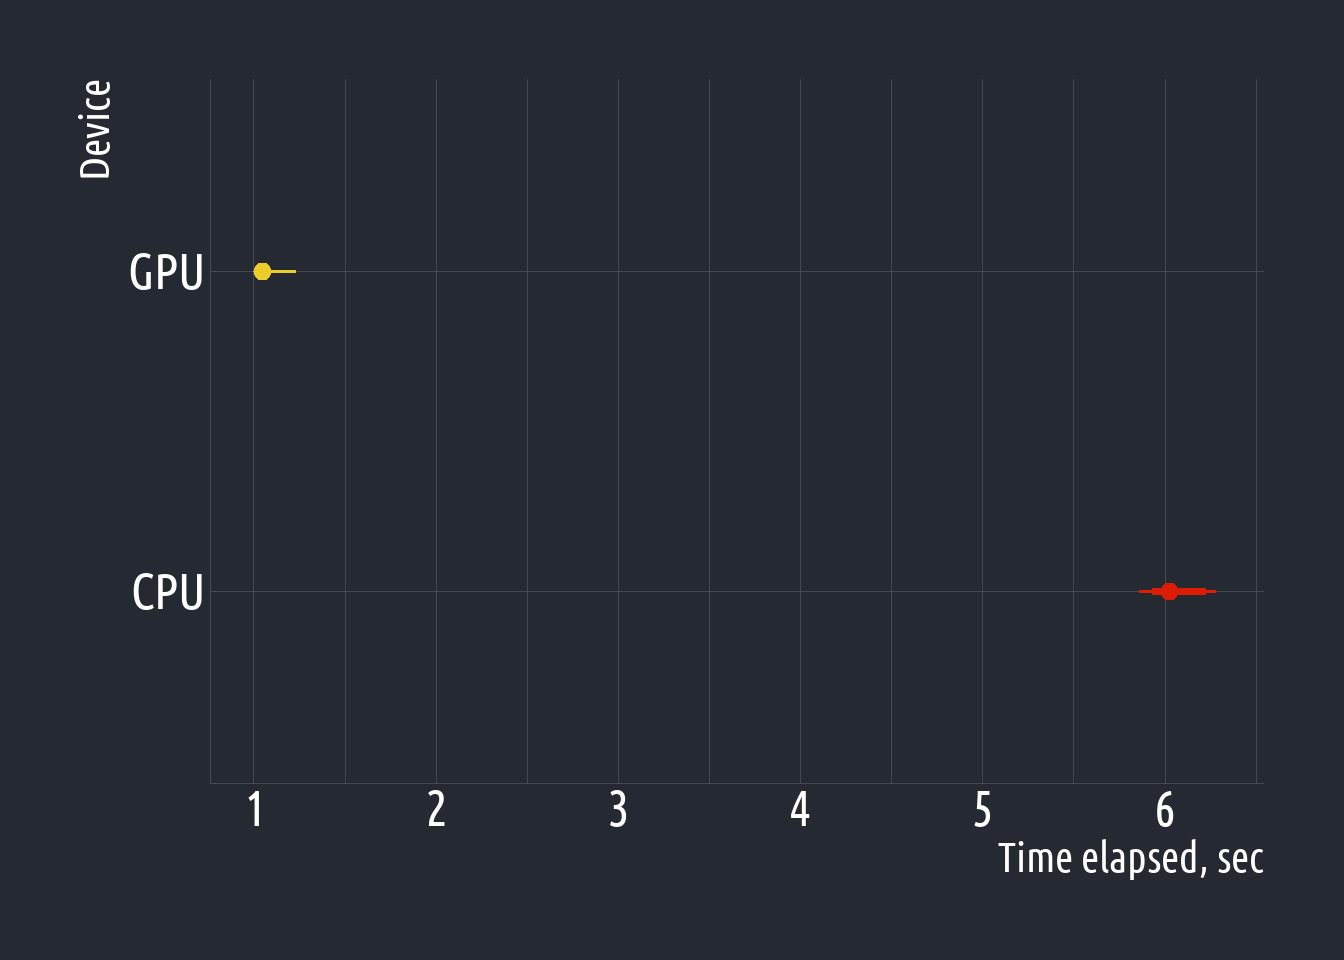
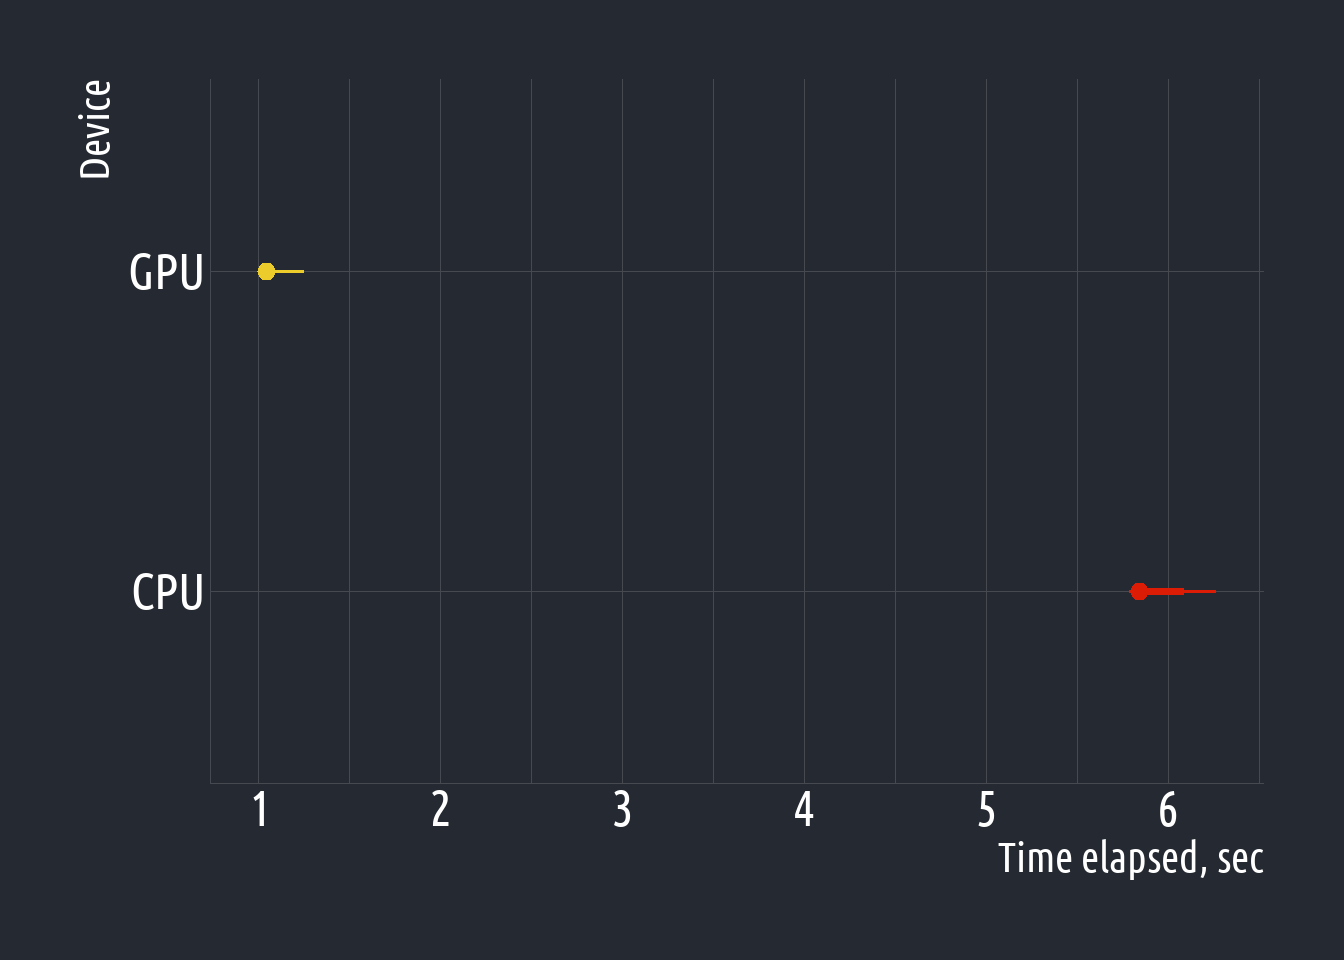
grammar fix and NixOS addon

diff --git a/_site/posts/2024/xgboost-gpu-r.html b/_site/posts/2024/xgboost-gpu-r.html
@@ -149,13 +149,17 @@ pre > code.sourceCode > span > a:first-child::before { text-decoration: underlin
 
 <meta property="og:title" content="Accelerating XGBoost with GPU in R – Anatoly Tsyplenkov">
 <meta property="og:description" content="Update NVIDIA drivers, install the pre-built {xgboost} library with GPU support, and set device = &quot;cuda&quot; while tree_method = &quot;hist&quot;.">
[1 lines of base64/hex data omitted]
+<meta property="og:image" content="https://anatolii.nz/posts/2024/figures/benchmarks.png">
 <meta property="og:site_name" content="Anatoly Tsyplenkov">
+<meta property="og:image:height" content="960">
+<meta property="og:image:width" content="1344">
 <meta name="twitter:title" content="Accelerating XGBoost with GPU in R – Anatoly Tsyplenkov">
 <meta name="twitter:description" content="Personal website of Anatoly Tsyplenkov">
[1 lines of base64/hex data omitted]
+<meta name="twitter:image" content="https://anatolii.nz/posts/2024/figures/benchmarks.png">
 <meta name="twitter:creator" content="@atsyplen">
 <meta name="twitter:card" content="summary_large_image">
+<meta name="twitter:image-height" content="960">
+<meta name="twitter:image-width" content="1344">
 </head>
 
 <body class="nav-fixed">
@@ -303,7 +307,7 @@ pre > code.sourceCode > span > a:first-child::before { text-decoration: underlin
 <section id="installation-instructions" class="level1 page-columns page-full">
 <h1>Installation instructions</h1>
 <p>According to the official documentation of the <code>{xgboost}</code> library, to run GPU-accelerated models in R, one must download and install the <a href="https://xgboost.readthedocs.io/en/latest/install.html#r"><strong>experimental pre-built binary with GPU support</strong></a> (i.e., not the CRAN version!). Currently, they exist only for Windows <i class="fa-brands fa-windows" aria-label="windows"></i> and Linux <i class="fa-brands fa-linux" aria-label="linux"></i>. They are not built with every release, so it’s a good practice to monitor <a href="https://github.com/dmlc/xgboost/releases">GitHub’s release</a> page for new binaries. While I am writing this post, the <code>2.0.3</code> version is the latest with GPU support for R.</p>
-<p>Currently, only NVIDIA GPUs <a href="https://xgboost.readthedocs.io/en/latest/gpu/index.html">are supported</a> and pre-built binaries are available for Windows and Linux. So, in a nutshell, prerequisites are as follows:</p>
+<p>Currently, only NVIDIA GPUs <a href="https://xgboost.readthedocs.io/en/latest/gpu/index.html">are supported</a>. So, in a nutshell, prerequisites are as follows:</p>
 <div class="callout callout-style-default callout-important callout-titled">
 <div class="callout-header d-flex align-content-center">
 <div class="callout-icon-container">
@@ -320,9 +324,9 @@ Prerequisites:
 </ol>
 </div>
 </div>
-<p>Depending on your operating system, installation instructions may vary. While it is quite straightforward for Windows and Linux, running <code>{xgboost}</code> with GPU on WSL2 requires some additional steps.</p>
+<p>Depending on your operating system, installation instructions may vary. While it is quite straightforward for Windows and Linux, running <code>{xgboost}</code> with GPU on WSL2 <em>may</em> require some additional steps.</p>
 <div class="tabset-margin-container"></div><div class="panel-tabset page-columns page-full">
-<ul class="nav nav-tabs" role="tablist"><li class="nav-item" role="presentation"><a class="nav-link active" id="tabset-1-1-tab" data-bs-toggle="tab" data-bs-target="#tabset-1-1" role="tab" aria-controls="tabset-1-1" aria-selected="true">Linux <i class="fa-brands fa-debian" aria-label="debian"></i> / <i class="fa-brands fa-ubuntu" aria-label="ubuntu"></i></a></li><li class="nav-item" role="presentation"><a class="nav-link" id="tabset-1-2-tab" data-bs-toggle="tab" data-bs-target="#tabset-1-2" role="tab" aria-controls="tabset-1-2" aria-selected="false">Windows <i class="fa-brands fa-windows" aria-label="windows"></i></a></li><li class="nav-item" role="presentation"><a class="nav-link" id="tabset-1-3-tab" data-bs-toggle="tab" data-bs-target="#tabset-1-3" role="tab" aria-controls="tabset-1-3" aria-selected="false">WSL2 <i class="fa-brands fa-linux" aria-label="linux"></i></a></li></ul>
+<ul class="nav nav-tabs" role="tablist"><li class="nav-item" role="presentation"><a class="nav-link active" id="tabset-1-1-tab" data-bs-toggle="tab" data-bs-target="#tabset-1-1" role="tab" aria-controls="tabset-1-1" aria-selected="true">Linux <i class="fa-brands fa-debian" aria-label="debian"></i> / <i class="fa-brands fa-ubuntu" aria-label="ubuntu"></i></a></li><li class="nav-item" role="presentation"><a class="nav-link" id="tabset-1-2-tab" data-bs-toggle="tab" data-bs-target="#tabset-1-2" role="tab" aria-controls="tabset-1-2" aria-selected="false">Windows <i class="fa-brands fa-windows" aria-label="windows"></i></a></li><li class="nav-item" role="presentation"><a class="nav-link" id="tabset-1-3-tab" data-bs-toggle="tab" data-bs-target="#tabset-1-3" role="tab" aria-controls="tabset-1-3" aria-selected="false">WSL2 <i class="fa-brands fa-linux" aria-label="linux"></i></a></li><li class="nav-item" role="presentation"><a class="nav-link" id="tabset-1-4-tab" data-bs-toggle="tab" data-bs-target="#tabset-1-4" role="tab" aria-controls="tabset-1-4" aria-selected="false">NixOS ❄</a></li></ul>
 <div class="tab-content page-columns page-full">
 <div id="tabset-1-1" class="tab-pane active" role="tabpanel" aria-labelledby="tabset-1-1-tab">
 <p>No additional tinkering is required; just be sure that you have installed <a href="https://www.nvidia.com/en-us/drivers/unix/">the latest NVIDIA</a> drivers on your system.</p>
@@ -345,13 +349,14 @@ Prerequisites:
 </div>
 </div>
 <div id="tabset-1-3" class="tab-pane page-columns page-full" role="tabpanel" aria-labelledby="tabset-1-3-tab">
-<p>By default, WSL2 does have access to your GPU. You can check this by running <code>nvidia-smi</code> in your terminal. If you see something similar to this, you are all set:</p>
+<p>By default, WSL2 should have access to your GPU. You can check this by running <code>nvidia-smi</code> in your terminal. If you see something similar to this, you are all set:</p>
 <div class="quarto-figure quarto-figure-center page-columns page-full">
 <figure class="figure page-columns page-full">
 <p><a href="figures/WindowsTerminal_kTF31RPuRA.png" class="lightbox" data-gallery="quarto-lightbox-gallery-2" title="Checking that WSL2 have access to GPU."><img src="figures/WindowsTerminal_kTF31RPuRA.png" class="img-fluid figure-img" style="width:50.0%" alt="Checking that WSL2 have access to GPU."></a></p>
 <figcaption class="margin-caption">Checking that WSL2 have access to GPU.</figcaption>
 </figure>
 </div>
+<p>If not, try installing <em>CUDA Toolkit</em> following this instructions:</p>
 <div class="callout callout-style-default callout-note callout-titled">
 <div class="callout-header d-flex align-content-center" data-bs-toggle="collapse" data-bs-target=".callout-2-contents" aria-controls="callout-2" aria-expanded="false" aria-label="Toggle callout">
 <div class="callout-icon-container">
@@ -373,6 +378,9 @@ CUDA Toolkit
 <div class="sourceCode cell-code" id="cb3"><pre class="sourceCode numberSource r number-lines code-with-copy"><code class="sourceCode r"><span id="cb3-1"><a href="#cb3-1"></a>xgboost_url <span class="ot">&lt;-</span> <span class="st">"https://s3-us-west-2.amazonaws.com/xgboost-nightly-builds/release_2.0.0/xgboost_r_gpu_linux_82d846bbeb83c652a0b1dff0e3519e67569c4a3d.tar.gz"</span></span>
 <span id="cb3-2"><a href="#cb3-2"></a><span class="fu">install.packages</span>(xgboost_url, <span class="at">repos =</span> <span class="cn">NULL</span>, <span class="at">type =</span> <span class="st">"source"</span>)</span></code><button title="Copy to Clipboard" class="code-copy-button"><i class="bi"></i></button></pre></div>
 </div>
+</div>
+<div id="tabset-1-4" class="tab-pane" role="tabpanel" aria-labelledby="tabset-1-4-tab">
+<p>Via <a href="https://github.com/b-rodrigues/xgboost-gpu-nix">nix shell</a>, created by Bruno Rodrigues.</p>
 </div>
 </div>
 </div>
@@ -433,7 +441,7 @@ CUDA Toolkit
 <span id="cb5-10"><a href="#cb5-10"></a>)</span>
 <span id="cb5-11"><a href="#cb5-11"></a><span class="fu">toc</span>()</span></code><button title="Copy to Clipboard" class="code-copy-button"><i class="bi"></i></button></pre></div>
 <div class="cell-output cell-output-stdout">
-<pre><code>6.98 sec elapsed</code></pre>
+<pre><code>6.8 sec elapsed</code></pre>
 </div>
 <div class="sourceCode cell-code" id="cb7"><pre class="sourceCode numberSource r number-lines code-with-copy"><code class="sourceCode r"><span id="cb7-1"><a href="#cb7-1"></a><span class="co"># GPU model</span></span>
 <span id="cb7-2"><a href="#cb7-2"></a><span class="fu">tic</span>()</span>
@@ -448,7 +456,7 @@ CUDA Toolkit
 <span id="cb7-11"><a href="#cb7-11"></a>)</span>
 <span id="cb7-12"><a href="#cb7-12"></a><span class="fu">toc</span>()</span></code><button title="Copy to Clipboard" class="code-copy-button"><i class="bi"></i></button></pre></div>
 <div class="cell-output cell-output-stdout">
-<pre><code>1.36 sec elapsed</code></pre>
+<pre><code>1.43 sec elapsed</code></pre>
 </div>
 </div>
 <p>That is! I have <strong>a ≈6x speed increase</strong> while testing it on WSL2.</p>
@@ -1025,7 +1033,7 @@ window.document.addEventListener("DOMContentLoaded", function (event) {
 </div>
   </div>
 </footer>
-<script>var lightboxQuarto = GLightbox({"selector":".lightbox","loop":false,"descPosition":"bottom","openEffect":"zoom","closeEffect":"zoom"});
+<script>var lightboxQuarto = GLightbox({"selector":".lightbox","loop":false,"openEffect":"zoom","closeEffect":"zoom","descPosition":"bottom"});
 (function() {
   let previousOnload = window.onload;
   window.onload = () => {

diff --git a/_site/index.html b/_site/index.html
@@ -300,7 +300,7 @@ window.Quarto = {
 
 <div class="quarto-listing quarto-listing-container-grid" id="listing-listing">
 <div class="list grid quarto-listing-cols-3">
-<div class="g-col-1" data-index="0" data-categories="R,gpu,xgboost" data-listing-date-sort="1722859200000" data-listing-file-modified-sort="1723088301200" data-listing-date-modified-sort="NaN" data-listing-reading-time-sort="7" data-listing-word-count-sort="1223">
+<div class="g-col-1" data-index="0" data-categories="R,gpu,xgboost" data-listing-date-sort="1722859200000" data-listing-file-modified-sort="1723353604309" data-listing-date-modified-sort="NaN" data-listing-reading-time-sort="7" data-listing-word-count-sort="1231">
 <a href="./posts/2024/xgboost-gpu-r.html" class="quarto-grid-link">
 <div class="quarto-grid-item card h-100 card-left">
 <p class="card-img-top">
